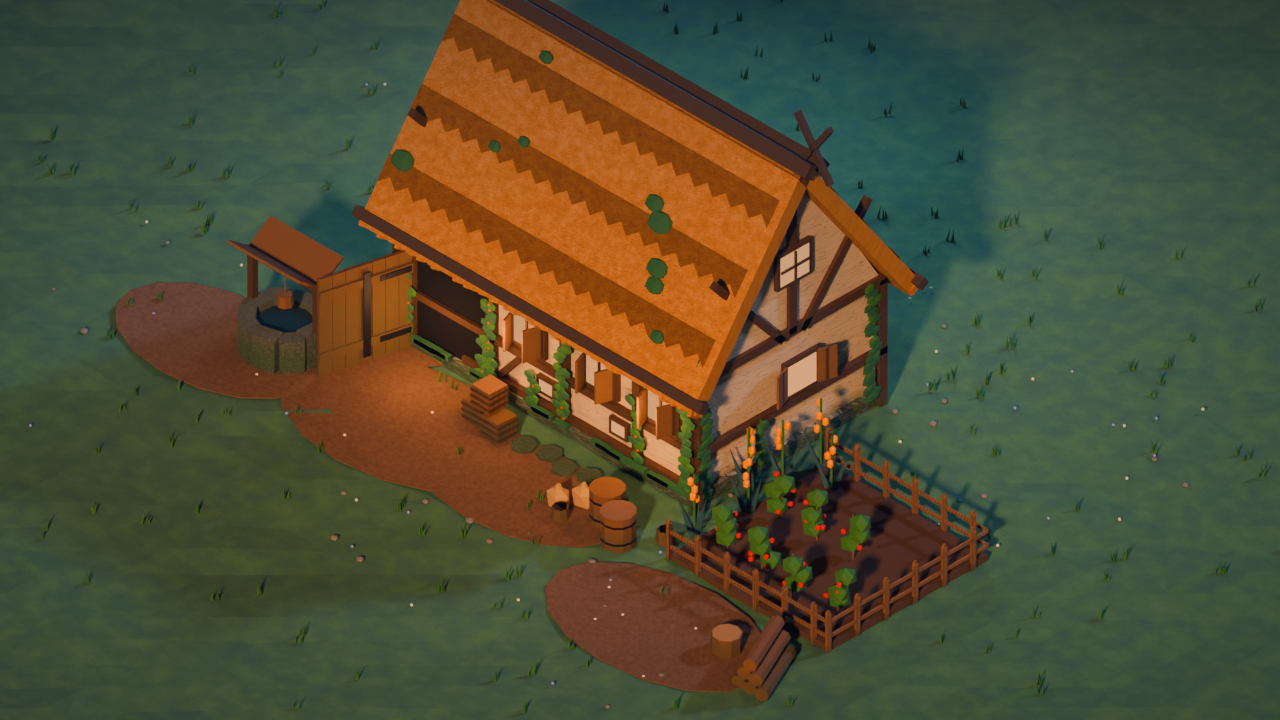
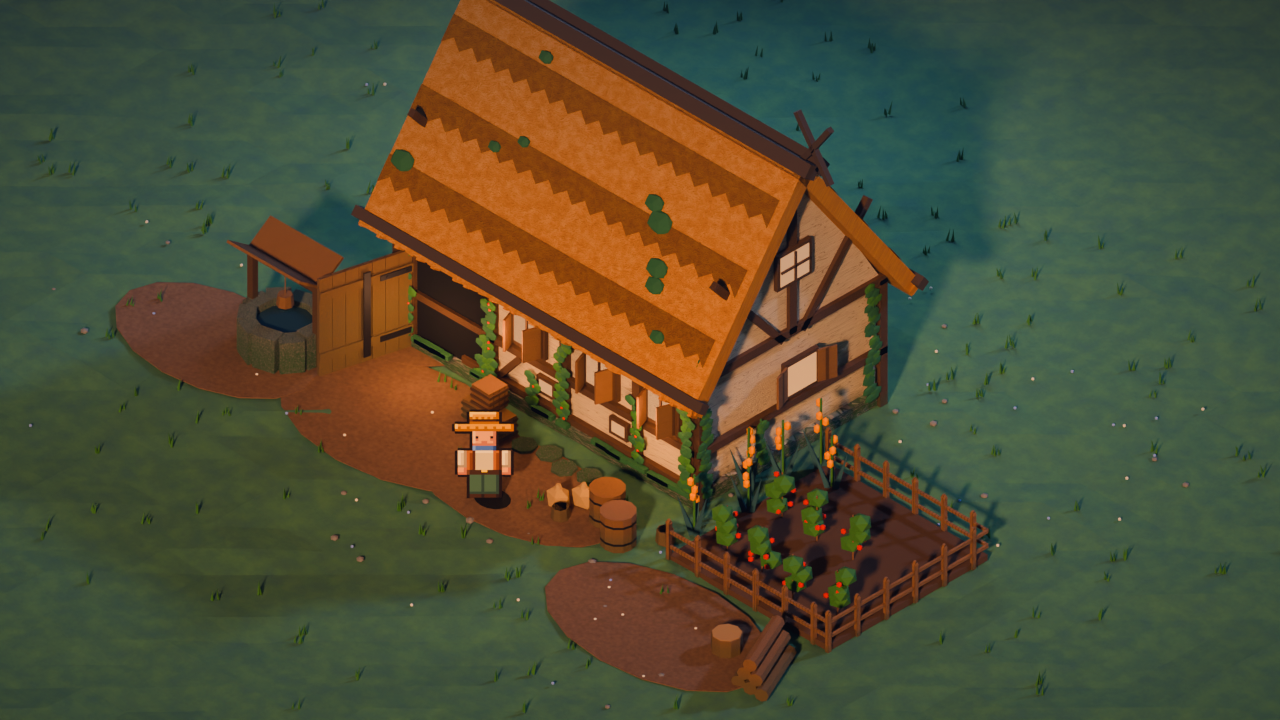
農家: ドット絵の農夫キャラクターを追加

Changed region(s): [[0.3438, 0.55, 0.4375, 0.7028]]

diff --git a/games/farmhouse/make_character.py b/games/farmhouse/make_character.py
@@ -1,0 +1,127 @@
+"""
+ドット絵の農夫（32×40）を Blender の画像として描いて、スプライトシートにする。
+
+使い方:  python make_character.py
+出力:    assets/character/farmer_sheet.png  （3行×4列：正面・横・うしろ、歩き4コマ）
+         assets/character/farmer_front.png  （正面1コマ。make_farmhouse.py が家の絵に立たせる）
+         assets/character/farmer_walk.gif   （横向きの歩き。8倍）
+"""
+import bpy, os
+import numpy as np
+from PIL import Image
+
+HERE = os.path.dirname(os.path.abspath(__file__))
+OUT = os.path.join(HERE, "assets", "character"); os.makedirs(OUT, exist_ok=True)
+W, H = 32, 40
+
+def C(*v): return (*v, 255)
+OUTLINE = C(26, 14, 14)
+SKIN = (C(244, 198, 156), C(224, 164, 122), C(182, 118, 92))
+STRAW = (C(244, 208, 120), C(216, 158, 62), C(160, 104, 40))
+SHIRT = (C(240, 228, 198), C(208, 192, 154), C(160, 140, 112))
+VEST = (C(168, 104, 60), C(120, 70, 42), C(80, 46, 32))
+PANTS = (C(104, 134, 100), C(70, 98, 76), C(46, 68, 56))
+BOOT = (C(104, 68, 46), C(66, 42, 30), C(40, 26, 22))
+SCARF = (C(118, 150, 214), C(78, 108, 172), C(50, 72, 126))
+HAIR = (C(120, 78, 50), C(92, 58, 40), C(60, 38, 30))
+EYE = C(32, 22, 28)
+
+class Canvas:
+    def __init__(self): self.a = np.zeros((H, W, 4), np.uint8)
+    def px(self, x, y, c):
+        if 0 <= x < W and 0 <= y < H: self.a[y, x] = c
+    def rect(self, x0, y0, x1, y1, pal, lit=True):
+        """3色（明・中・暗）で塗る。左と上が明るく、右と下が暗い。"""
+        for y in range(y0, y1 + 1):
+            for x in range(x0, x1 + 1):
+                c = pal[1]
+                if x1 - x0 >= 2:
+                    if x == x0 and lit: c = pal[0]
+                    if x == x1: c = pal[2]
+                if y1 - y0 >= 2 and y == y1: c = pal[2]
+                if y == y0 and y1 - y0 >= 3 and lit and x != x1: c = pal[0]
+                self.px(x, y, c)
+    def outline(self):
+        m = self.a[..., 3] > 0; o = np.zeros_like(m)
+        o[1:] |= m[:-1]; o[:-1] |= m[1:]; o[:, 1:] |= m[:, :-1]; o[:, :-1] |= m[:, 1:]
+        for y, x in zip(*np.nonzero(o & ~m)): self.a[y, x] = OUTLINE
+
+def draw(view, step):
+    c = Canvas()
+    sw = [0, 1, 0, -1][step]                 # 腕のふり
+    lift = [0, 0, 0, 0][step]
+    bob = 1 if step in (1, 3) else 0         # 体が少し上下
+    y0 = bob
+    if view in ("front", "back"):
+        # 脚と靴
+        for i, (x0, x1) in enumerate(((11, 15), (16, 20))):
+            up = 2 if (step == 1 and i == 0) or (step == 3 and i == 1) else 0
+            c.rect(x0, 27, x1, 34 - up, PANTS, lit=False)
+            c.rect(x0, 35 - up, x1, 38 - up, BOOT, lit=False)
+        # 胴・ベスト・ベルト
+        c.rect(10, 17 - y0, 21, 26 - y0, SHIRT)
+        c.rect(10, 17 - y0, 12, 26 - y0, VEST); c.rect(19, 17 - y0, 21, 26 - y0, VEST)
+        c.rect(10, 25 - y0, 21, 26 - y0, BOOT)
+        c.px(15, 25 - y0, C(236, 200, 90)); c.px(16, 25 - y0, C(236, 200, 90))
+        # 腕と手
+        for (x0, x1, s) in ((7, 9, sw), (22, 24, -sw)):
+            c.rect(x0, 17 - y0 + s, x1, 23 - y0 + s, SHIRT)
+            c.rect(x0, 24 - y0 + s, x1, 26 - y0 + s, SKIN, lit=False)
+        # スカーフと顔
+        c.rect(12, 15 - y0, 19, 16 - y0, SCARF)
+        c.rect(12, 8 - y0, 19, 14 - y0, SKIN if view == "front" else HAIR)
+        if view == "front":
+            c.px(13, 11 - y0, EYE); c.px(18, 11 - y0, EYE); c.px(13, 12 - y0, SKIN[2]); c.px(18, 12 - y0, SKIN[2])
+            c.px(15, 13 - y0, SKIN[2]); c.px(16, 13 - y0, SKIN[2])
+            c.rect(12, 8 - y0, 19, 8 - y0, HAIR)
+    else:  # 横向き（右向き）
+        far = [3, 0, -3, 0][step]
+        # 奥の脚 → 手前の脚
+        for (dx, pal_b) in ((-far, True), (far, False)):
+            x0 = 13 + dx; c.rect(x0, 27, x0 + 3, 34, PANTS, lit=False)
+            c.rect(x0, 35, x0 + 4, 38, BOOT, lit=False)
+            if pal_b: pass
+        c.rect(12, 17 - y0, 19, 26 - y0, SHIRT)
+        c.rect(12, 17 - y0, 14, 26 - y0, VEST)
+        c.rect(12, 25 - y0, 19, 26 - y0, BOOT)
+        # 奥の腕（暗め）と手前の腕
+        c.rect(14 - 2 * sw, 18 - y0, 16 - 2 * sw, 25 - y0, (SHIRT[2], SHIRT[2], SHIRT[2]))
+        c.rect(13 + 2 * sw, 18 - y0, 16 + 2 * sw, 23 - y0, SHIRT)
+        c.rect(13 + 2 * sw, 24 - y0, 16 + 2 * sw, 26 - y0, SKIN, lit=False)
+        c.rect(12, 15 - y0, 19, 16 - y0, SCARF)
+        c.rect(12, 8 - y0, 19, 14 - y0, SKIN)
+        c.rect(12, 8 - y0, 14, 14 - y0, HAIR)
+        c.px(17, 11 - y0, EYE); c.px(20, 11 - y0, SKIN[1]); c.px(20, 12 - y0, SKIN[2])
+    # 麦わら帽子
+    c.rect(11, 1 - y0, 20, 5 - y0, STRAW)
+    for x in range(11, 21, 2): c.px(x, 3 - y0, STRAW[2])               # わらの編み目
+    c.rect(11, 4 - y0, 20, 4 - y0, BOOT)                               # 帽子のひも
+    bx0, bx1 = (6, 25) if view != "side" else (8, 24)
+    c.rect(bx0, 6 - y0, bx1, 8 - y0, STRAW)
+    for x in range(bx0 + 1, bx1, 3): c.px(x, 7 - y0, STRAW[2])
+    c.outline()
+    return c.a
+
+views = ["front", "side", "back"]
+sheet = np.zeros((H * 3, W * 4, 4), np.uint8)
+for r, v in enumerate(views):
+    for s in range(4): sheet[r * H:(r + 1) * H, s * W:(s + 1) * W] = draw(v, s)
+
+# Blender の画像として作って Blender で保存する（上下が逆なので反転して渡す）
+def save_with_blender(arr, path):
+    h, w = arr.shape[:2]
+    img = bpy.data.images.new(os.path.basename(path), w, h, alpha=True)
+    img.pixels = (arr[::-1].astype(np.float32) / 255).ravel().tolist()
+    img.filepath_raw = path; img.file_format = 'PNG'; img.save()
+save_with_blender(sheet, os.path.join(OUT, "farmer_sheet.png"))
+save_with_blender(sheet[0:H, 0:W], os.path.join(OUT, "farmer_front.png"))
+
+# 確認：歩きの動き（GIF）と8倍拡大
+fr = []
+for s in (0, 1, 2, 3):
+    im = Image.fromarray(sheet[H:2 * H, s * W:(s + 1) * W]).resize((W * 8, H * 8), Image.NEAREST)
+    bg = Image.new("RGBA", im.size, (36, 52, 64, 255)); bg.alpha_composite(im); fr.append(bg.convert("P"))
+fr[0].save(os.path.join(OUT, "farmer_walk.gif"), save_all=True, append_images=fr[1:], duration=160, loop=0)
+big = Image.fromarray(sheet).resize((W * 4 * 6, H * 3 * 6), Image.NEAREST)
+bg = Image.new("RGBA", big.size, (36, 52, 64, 255)); bg.alpha_composite(big); bg.save(os.path.join(OUT, "farmer_preview.png"))
+print("done")

diff --git a/games/farmhouse/make_farmhouse.py b/games/farmhouse/make_farmhouse.py
@@ -619,6 +619,26 @@ co.location = ct.location + Vector((d * cos(el) * sin(az), -d * cos(el) * cos(az
 tc = co.constraints.new('TRACK_TO'); tc.target = ct; tc.track_axis = 'TRACK_NEGATIVE_Z'; tc.up_axis = 'UP_Y'
 scene.camera = co
 
+
+# ---------------------------------------------------------------- 農夫（ドット絵の板を、カメラに向けて立てる）
+FARMER = os.path.join(OUT, "character", "farmer_front.png")
+if os.path.exists(FARMER):
+    img = bpy.data.images.load(FARMER)
+    fm = bpy.data.materials.new("Farmer"); fm.use_nodes = True
+    fn = fm.node_tree.nodes; fb = fn["Principled BSDF"]
+    ft = fn.new("ShaderNodeTexImage"); ft.image = img; ft.interpolation = 'Closest'
+    fm.node_tree.links.new(ft.outputs["Color"], fb.inputs["Base Color"])
+    fm.node_tree.links.new(ft.outputs["Color"], fb.inputs["Emission Color"]); fb.inputs["Emission Strength"].default_value = .25
+    fm.node_tree.links.new(ft.outputs["Alpha"], fb.inputs["Alpha"]); fb.inputs["Roughness"].default_value = 1
+    FARMER_POS = (1.0, -4.3); FARMER_OBJS = []
+    for (fx, fy) in [FARMER_POS]:
+        hgt = 2.3; wid = hgt * 32 / 40
+        bpy.ops.mesh.primitive_plane_add(size=1)
+        fo = bpy.context.object; fo.name = "Farmer"
+        fo.matrix_world = xf((fx, fy, hgt / 2 * .86 + .02), (radians(90), 0, radians(45)), (wid, hgt, 1))
+        fo.data.materials.append(fm); FARMER_OBJS.append(fo)
+        bpy.ops.mesh.primitive_cylinder_add(vertices=16, radius=.4, depth=.02)
+        sh = bpy.context.object; sh.matrix_world = xf((fx + .12, fy + .1, .05), (0, 0, 0), (1, .8, 1)); sh.data.materials.append(M["inside"]); FARMER_OBJS.append(sh)
 scene.render.engine = 'CYCLES'; scene.cycles.device = 'CPU'; scene.cycles.samples = SAMPLES
 scene.cycles.use_denoising = True
 scene.render.resolution_x, scene.render.resolution_y = RES
@@ -666,8 +686,22 @@ if "--pixel-only" not in sys.argv:
 # ドット絵：小さく描いて（270行）、色を32色にしぼり、輪郭線をつけ、4倍に拡大
 PX = (480, 270)
 rawpx = os.path.join(OUT, "farmhouse_raw_px.png")
+for o_ in globals().get("FARMER_OBJS", []): o_.hide_render = True      # ドット絵版は、あとで原寸のまま貼る
+scene.render.resolution_x, scene.render.resolution_y = PX
+from bpy_extras.object_utils import world_to_camera_view
 render_to(rawpx, PX, 24 if os.environ.get("FH_QUICK") else 96, filt=.01)
 pix = grade(rawpx, outline=True).quantize(32, method=Image.Quantize.MEDIANCUT, dither=Image.Dither.NONE).convert("RGB")
+if os.path.exists(FARMER):
+    sp = Image.open(FARMER).convert("RGBA")
+    cx, cy, _ = world_to_camera_view(scene, co, Vector((*FARMER_POS, 0)))
+    fx_, fy_ = int(cx * PX[0]), int((1 - cy) * PX[1])
+    pix = pix.convert("RGBA")
+    shade = Image.new("RGBA", pix.size, (0, 0, 0, 0))
+    from PIL import ImageDraw
+    ImageDraw.Draw(shade).ellipse((fx_ - 8, fy_ - 4, fx_ + 8, fy_ + 2), fill=(10, 14, 20, 120))
+    pix = Image.alpha_composite(pix, shade)
+    pix.alpha_composite(sp, (fx_ - 16, fy_ - 39))
+    pix = pix.convert("RGB")
 pix.save(os.path.join(OUT, "farmhouse_pixel_1x.png"))
 pix.resize((PX[0] * 4, PX[1] * 4), Image.NEAREST).save(os.path.join(OUT, "farmhouse_pixel.png"))
 os.remove(rawpx)

diff --git a/games/farmhouse/README.md b/games/farmhouse/README.md
@@ -29,3 +29,9 @@
 - `python make_farmhouse.py --bake` で、ノードの模様（色と凹凸）を画像に焼いて `assets/farmhouse_baked.glb`（と `.glb.js`）を作る。2分ほど。
 - 焼いた画像は .glb の中に入っている（色と凹凸、JPEG）。Unreal / Unity / Godot にそのまま入れて模様が出る。
 - `index.html` と スマホ用ページは焼いた版を使う。
+
+## 農夫のキャラクター（ドット絵）
+- `python make_character.py`：32×40のドット絵の農夫を、Blenderの画像機能で描いて保存する（正面・横・うしろ × 歩き4コマ）
+- 出力：`assets/character/farmer_sheet.png`（スプライトシート）、`farmer_front.png`、`farmer_walk.gif`（歩きの確認）、`farmer_preview.png`
+- `make_farmhouse.py` は `farmer_front.png` があれば家の前に立たせる（ドット絵版には原寸のまま貼る）
+- ゲームで使うとき：シートは1コマ 32×40。Unity / Godot / Unreal(Paper2D) の「スプライトシート」としてそのまま読める

diff --git a/games/koushu-denwa/STATUS.md b/games/koushu-denwa/STATUS.md
@@ -1,6 +1,6 @@
 # 3Dホラーゲーム「公衆電話」 状況メモ
 
-最終更新：2026-10-05（農家の3Dシーンを `games/farmhouse/` に追加。ゲーム本体は変更なし）／前回：2026-10-04（第13版：ゲームの謎解き設計と、紙もの・看板・液晶の画像を追加）
+最終更新：2026-10-05（農家の3Dシーンとドット絵の農夫を `games/farmhouse/` に追加。ゲーム本体は変更なし）／前回：2026-10-04（第13版：ゲームの謎解き設計と、紙もの・看板・液晶の画像を追加）
 
 ## ゲームの設定（ひかるが決めたこと）
 
